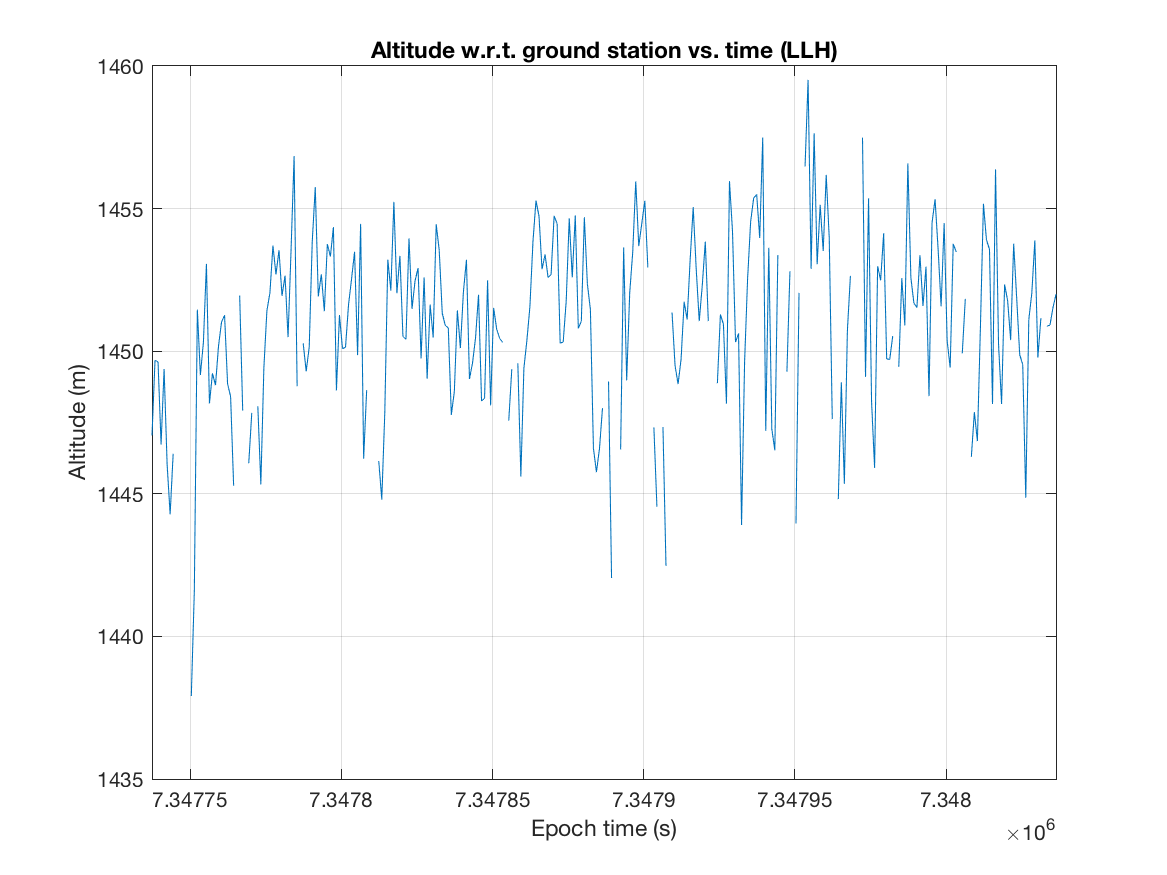
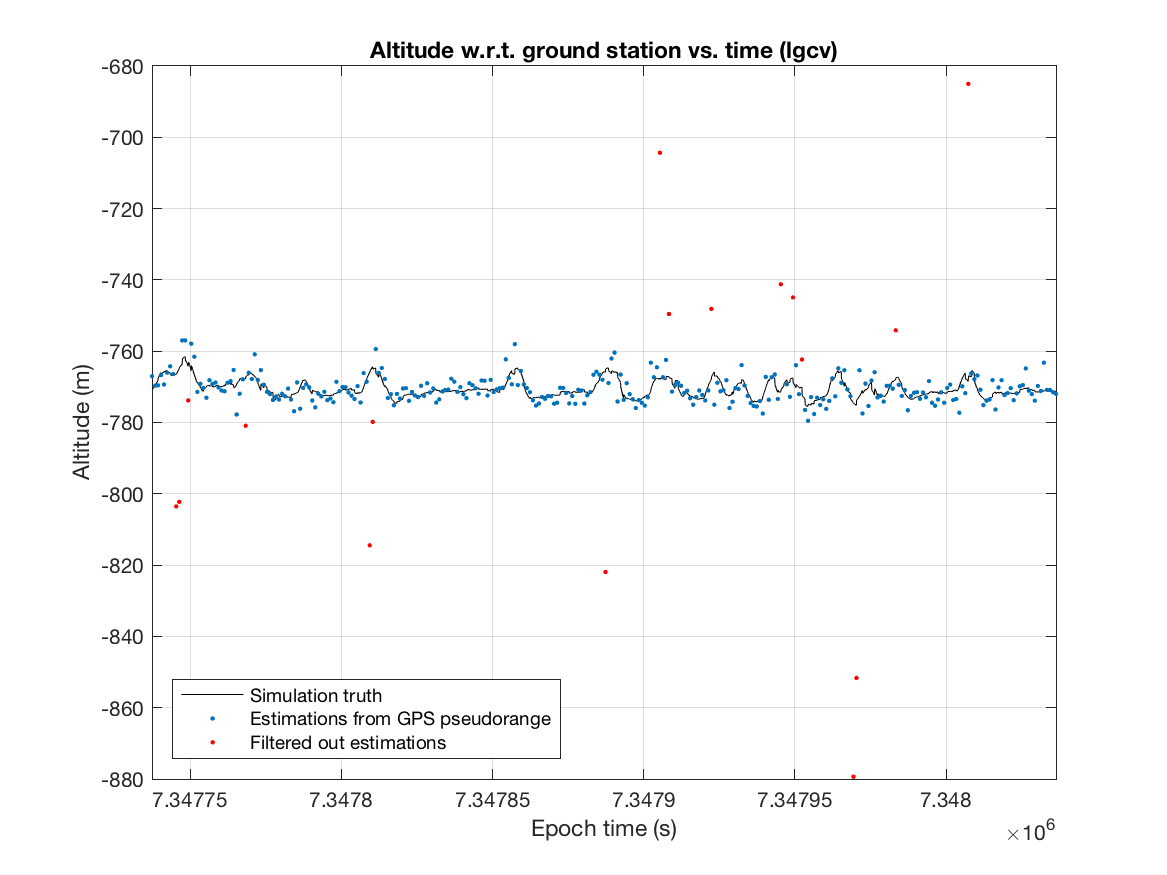
plots done for part b

diff --git a/Assignment 2/Q1_scripts/mainQ1_B_plots.m b/Assignment 2/Q1_scripts/mainQ1_B_plots.m
@@ -7,16 +7,17 @@
 %% 3D plot
 
 figure;
-plot3(uav_truth.pos_LGCV(1,:), uav_truth.pos_LGCV(2,:), uav_truth.pos_LGCV(3,:), '.');
+plot3(uav_truth.pos_LGCV(1,:), uav_truth.pos_LGCV(2,:), uav_truth.pos_LGCV(3,:), 'k-');
 hold on;
-plot3(uav.pos_LGCV_filtered(1,:), uav.pos_LGCV_filtered(2,:), uav.pos_LGCV_filtered(3,:), 'r.');
+plot3(uav.pos_LGCV_filtered(1,:), uav.pos_LGCV_filtered(2,:), uav.pos_LGCV_filtered(3,:), '.');
+plot3(uav.pos_LGCV_removed(1,:), uav.pos_LGCV_removed(2,:), uav.pos_LGCV_removed(3,:), 'r.');
 grid on;
 % axis equal;
 title('3D plot of UAV position w.r.t. to ground station (LGCV)');
 xlabel('X (north) (m)');
 ylabel('Y (east) (m)');
 zlabel('Z (down) (m)');
-legend('Simulation truth', 'Estimation from GPS pseudorange', 'Location', 'northeast');
+legend('Simulation truth', 'Estimations from GPS pseudorange', 'Filtered out estimations', 'Location', 'northeast');
 if save_figures == true
     saveas(gcf, '3D_plot.png');
     view(2);
@@ -29,15 +30,17 @@ end
 figure;
 [plotx_truth, ploty_truth] = overheadplotcoords(uav_truth.pos_POLAR(AZIMUTH,:), uav_truth.pos_POLAR(ELEVATION,:));
 [plotx, ploty] = overheadplotcoords(uav.pos_POLAR_filtered(AZIMUTH,:), uav.pos_POLAR_filtered(ELEVATION,:));
-plot(plotx_truth, ploty_truth, '.');
+[plotx_removed, ploty_removed] = overheadplotcoords(uav.pos_POLAR_removed(AZIMUTH,:), uav.pos_POLAR_removed(ELEVATION,:));
+plot(plotx_truth, ploty_truth, 'k-');
 hold on;
-plot(plotx, ploty, 'ro');
+plot(plotx, ploty, '.');
+plot(plotx_removed, ploty_removed, 'r.');
 grid on;
 axis equal;
 title('2D overhead plot of UAV w.r.t. ground station (polar)');
 xlabel('Azimuth (degrees)');
 ylabel('Elevation (degrees)');
-legend('Simulation truth', 'Estimation from GPS pseudorange', 'Location', 'eastoutside');
+legend('Simulation truth', 'Estimations from GPS pseudorange', 'Filtered out estimations', 'Location', 'eastoutside');
 if save_figures == true
     saveas(gcf, '2D_overhead_plot.png');
 end
@@ -45,11 +48,15 @@ end
 %% altitude vs. time
 
 figure;
-plot(t_uav, uav.pos_LLH_filtered(ALTITUDE,:));
-title('Altitude w.r.t. ground station vs. time (LLH)');
+plot(uav_truth.time, uav_truth.pos_LGCV(ALTITUDE,:), 'k');
+hold on;
+plot(t_uav, uav.pos_LGCV_filtered(ALTITUDE,:), '.');
+plot(t_uav, uav.pos_LGCV_removed(ALTITUDE,:), 'r.');
+grid on;
+title('Altitude w.r.t. ground station vs. time (lgcv)');
 xlabel('Epoch time (s)');
 ylabel('Altitude (m)');
-grid on;
+legend('Simulation truth', 'Estimations from GPS pseudorange', 'Filtered out estimations', 'Location', 'southwest');
 xlim([min(t_uav) max(t_uav)]);
 if save_figures == true
     saveas(gcf, 'altitude_vs_time.png');
@@ -58,18 +65,23 @@ end
 %% DOP
 
 figure;
-plot(t_uav, GDOP);
+plot(t_uav, GDOP_filtered, 'b');
 hold on
-plot(t_uav, PDOP);
-plot(t_uav, HDOP);
-plot(t_uav, VDOP);
-plot(t_uav, TDOP);
+plot(t_uav, PDOP_filtered, 'g');
+plot(t_uav, HDOP_filtered, 'r');
+plot(t_uav, VDOP_filtered, 'm');
+plot(t_uav, TDOP_filtered, 'k');
+plot(t_uav, GDOP_removed, 'b.');
+plot(t_uav, PDOP_removed, 'g.');
+plot(t_uav, HDOP_removed, 'r.');
+plot(t_uav, VDOP_removed, 'm.');
+plot(t_uav, TDOP_removed, 'k.');
 grid on;
 xlim([min(t_uav) max(t_uav)]);
 title('Dilution of precision vs. time');
 xlabel('Epoch time (s)');
 ylabel('Dilution of precision');
-legend('GDOP', 'PDOP', 'HDOP', 'VDOP', 'TDOP', 'Location', 'northwest');
+legend('GDOP', 'PDOP', 'HDOP', 'VDOP', 'TDOP', 'GDOP filtered out', 'PDOP filtered out', 'HDOP filtered out', 'VDOP filtered out', 'TDOP filtered out', 'Location', 'northwest');
 if save_figures == true
     saveas(gcf, 'DOP.png');
 end
@@ -79,7 +91,8 @@ end
 figure;
 bar(t_uav, n_measurements_filtered);
 hold on;
-bar(t_uav, n_measurements_removed, 'FaceColor', [grey grey grey], 'EdgeColor', [grey grey grey]);
+% bar(t_uav, n_measurements_removed, 'FaceColor', [grey grey grey], 'EdgeColor', [grey grey grey]);
+bar(t_uav, n_measurements_removed, 'FaceColor', 'r', 'EdgeColor', 'r');
 title('Number of satellites used at each time-stamp');
 xlabel('Epoch time (s) (discrete)');
 ylabel('Number of satellites used');
@@ -93,12 +106,39 @@ end
 figure;
 plot(t_uav, uav.clock_bias_filtered, '.');
 hold on;
-plot(t_uav, uav.clock_bias_removed, '.');
+plot(t_uav, uav.clock_bias_removed, 'r.');
 grid on;
 xlim([min(t_uav) max(t_uav)]);
 title('User clock bias');
 xlabel('Epoch time (s)');
 ylabel('User clock bias (m)');
+legend('Estimations from GPS pseudorange', 'Filtered out estimations', 'Location', 'southwest');
 if save_figures == true
     saveas(gcf, 'user_clock_bias.png');
+end
+
+%% azimuth-elevation of satellites visible to GPS receiver w.r.t. ground station (polar)
+
+figure;
+visible_sat_start = GPS_pseudorange(1).sat_num;
+visible_sat_end = GPS_pseudorange(end).sat_num;
+theta_start = orbits_pos_POLAR(AZIMUTH, 1, visible_sat_start);
+theta_end = orbits_pos_POLAR(AZIMUTH, end, visible_sat_end);
+r_start = orbits_pos_POLAR(ELEVATION, 1, visible_sat_start);
+r_end = orbits_pos_POLAR(ELEVATION, end, visible_sat_end);
+polarscatter(theta_start, 90 - rad2deg(r_start));
+rticks([0 30 60 90]);
+rlim([0 90]);
+hold on;
+polarscatter(theta_end, 90 - rad2deg(r_end));
+ax = gca;
+ax.ThetaZeroLocation = 'top';
+ax.ThetaDir = 'clockwise';
+ax.ThetaTickLabels = {'Az = N','30deg','60','E','120','150','S','210','240','W','300','330'};
+ax.ThetaTickLabels = {'Az = N','30','60','E','120','150','S','210','240','W','300','330'};
+ax.RTickLabels = {'El = 90deg','60','30','0'};
+title('Azimuth-elevation of visible satellites (polar w.r.t. ground station)');
+legend('Satellites visible at the start','Satellites visible at the end');
+if save_figures == true
+    saveas(gcf, 'azimuth-elevation.png');
 end

diff --git a/Assignment 2/Q1_scripts/mainQ1_B.m b/Assignment 2/Q1_scripts/mainQ1_B.m
@@ -9,6 +9,8 @@
 orbits_uav.pos_ECI = 0;
 orbits_uav.pos_ECEF = 0;
 orbits_uav = repmat(orbits_uav, 1, size(GPS_ephemeris, 1));
+orbits_pos_LGCV = zeros(3, 2, n_satellites);
+orbits_pos_POLAR = zeros(3, 2, n_satellites);
 
 % for each satellite, get the trajectory at each unique time-stamp in the
 % GPS pseudorange data
@@ -34,6 +36,10 @@ for ii = 1:n_satellites
     
     % get ECEF position vectors
     orbits_uav(ii).pos_ECEF = eci2ecef_vector(orbits_uav(ii).pos_ECI, t_uav - t_VE);
+    
+    % get satellite position at start and end times (for plotting later)
+    orbits_pos_LGCV(:,:,ii) = ecef_ground2lgcv_vector(orbits_uav(ii).pos_ECEF(:, [1,end]), ground_LLH);
+    orbits_pos_POLAR(:,:,ii) = cartesian2polar_vector(orbits_pos_LGCV(:,:,ii));
         
 end
 
@@ -49,6 +55,7 @@ TDOP = zeros(size(GPS_pseudorange,1),1);
 uav.pos_ECEF = zeros(3, size(GPS_pseudorange,1));
 uav.pos_ECEF_filtered = zeros(3, size(GPS_pseudorange,1));
 uav.clock_bias = zeros(1, size(GPS_pseudorange,1));
+uav.clock_bias_filtered = zeros(1, size(GPS_pseudorange,1));
 
 % at each unique time-stamp in the pseudorange data, make a position
 % estimate for the uav: x = [x, y, z, cb]
@@ -123,10 +130,6 @@ for time_stamp = 1:size(GPS_pseudorange,1)
     VDOP(time_stamp) = sqrt(V(3,3));
     TDOP(time_stamp) = sqrt(V(4,4));
     
-    % store estimated state
-    uav.pos_ECEF(:,time_stamp) = x_0(XYZ);
-    uav.clock_bias(:, time_stamp) = x_0(CB);
-    
     % check rank of V
     if rank(V) ~= 4
         
@@ -143,9 +146,13 @@ for time_stamp = 1:size(GPS_pseudorange,1)
         
     end
     
-    % store estimated state after removing bad value
-    uav.pos_ECEF_filtered(:,time_stamp) = x_0(XYZ);
-    uav.clock_bias_filtered(:, time_stamp) = x_0(CB);
+    % store estimated state
+    uav.pos_ECEF(:,time_stamp) = x_0(XYZ);
+    uav.clock_bias(:, time_stamp) = x_0(CB);
+    
+%     % store estimated state after removing bad value
+%     uav.pos_ECEF_filtered(:,time_stamp) = x_0(XYZ);
+%     uav.clock_bias_filtered(:, time_stamp) = x_0(CB);
     
 end
 
@@ -155,29 +162,26 @@ end
 uav_truth.pos_POLAR = cartesian2polar_vector(uav_truth.pos_LGCV);
 
 % convert estimated UAV coordinates into other frames
-uav.pos_LLH = ecef2llh_geocentric_vector(uav.pos_ECEF);
+% uav.pos_LLH = ecef2llh_geocentric_vector(uav.pos_ECEF);
 uav.pos_LGCV = ecef_ground2lgcv_vector(uav.pos_ECEF, ground_LLH);
 uav.pos_POLAR = cartesian2polar_vector(uav.pos_LGCV);
-% uav.pos_POLAR_deg = [uav.pos_POLAR(1,:); deg2rad(uav.pos_POLAR(2:3,:))];
-% uav.pos_RANGE = uav.pos_POLAR(1,:);
-% uav.pos_AZ_deg = rad2deg(uav.pos_POLAR(AZIMUTH,:));           % convert from radians to degrees for azimuth
-% uav.pos_EL_deg = rad2deg(uav.pos_POLAR(ELEVATION,:));           % convert from radians to degrees for elevation
 
 %% removing outliers
 
 % assume that satellite clock bias is negligible compared to user receiver
 % clock bias. Remove estimations where clock bias is too large or too small
 % because clock bias should be similar for the same GPS receiver
-outliers = isoutlier(uav.clock_bias);
+outliers = isoutlier(uav.clock_bias, 'grubbs');
 
+uav.pos_ECEF_filtered = uav.pos_ECEF;
 uav.pos_ECEF_filtered(:, outliers) = NaN;
 uav.pos_ECEF_removed = uav.pos_ECEF;
 uav.pos_ECEF_removed(:, ~outliers) = NaN;
 
-uav.pos_LLH_filtered = uav.pos_LLH;
-uav.pos_LLH_filtered(:, outliers) = NaN;
-uav.pos_LLH_removed = uav.pos_LLH;
-uav.pos_LLH_removed(:, ~outliers) = NaN;
+% uav.pos_LLH_filtered = uav.pos_LLH;
+% uav.pos_LLH_filtered(:, outliers) = NaN;
+% uav.pos_LLH_removed = uav.pos_LLH;
+% uav.pos_LLH_removed(:, ~outliers) = NaN;
 
 uav.pos_LGCV_filtered = uav.pos_LGCV;
 uav.pos_LGCV_filtered(:, outliers) = NaN;
@@ -194,6 +198,28 @@ n_measurements_filtered(outliers) = NaN;
 n_measurements_removed = n_measurements;
 n_measurements_removed(~outliers) = NaN;
 
+uav.clock_bias_filtered = uav.clock_bias;
 uav.clock_bias_filtered(:, outliers) = NaN;
 uav.clock_bias_removed = uav.clock_bias;
 uav.clock_bias_removed(:, ~outliers) = NaN;
+
+GDOP_filtered = GDOP;
+PDOP_filtered = PDOP;
+HDOP_filtered = HDOP;
+VDOP_filtered = VDOP;
+TDOP_filtered = TDOP;
+GDOP_filtered(outliers) = NaN;
+PDOP_filtered(outliers) = NaN;
+HDOP_filtered(outliers) = NaN;
+VDOP_filtered(outliers) = NaN;
+TDOP_filtered(outliers) = NaN;
+GDOP_removed = GDOP;
+PDOP_removed = PDOP;
+HDOP_removed = HDOP;
+VDOP_removed = VDOP;
+TDOP_removed = TDOP;
+GDOP_removed(~outliers) = NaN;
+PDOP_removed(~outliers) = NaN;
+HDOP_removed(~outliers) = NaN;
+VDOP_removed(~outliers) = NaN;
+TDOP_removed(~outliers) = NaN;

diff --git a/Assignment 2/mainQ1.m b/Assignment 2/mainQ1.m
@@ -30,7 +30,7 @@ uav_truth = load_UAV_position('UAVPosition.txt');
 
 %% Q1.A - satellite trajectory over a 12hr period
 
-% mainQ1_A;
+mainQ1_A;
 
 %% Q1.B - satellite trajectory over the time period of the GPS pseudorange data
 
@@ -40,7 +40,7 @@ mainQ1_B;
 
 if plotting == true
     
-%     mainQ1_A_plots;
+    mainQ1_A_plots;
     
     mainQ1_B_plots;
     
